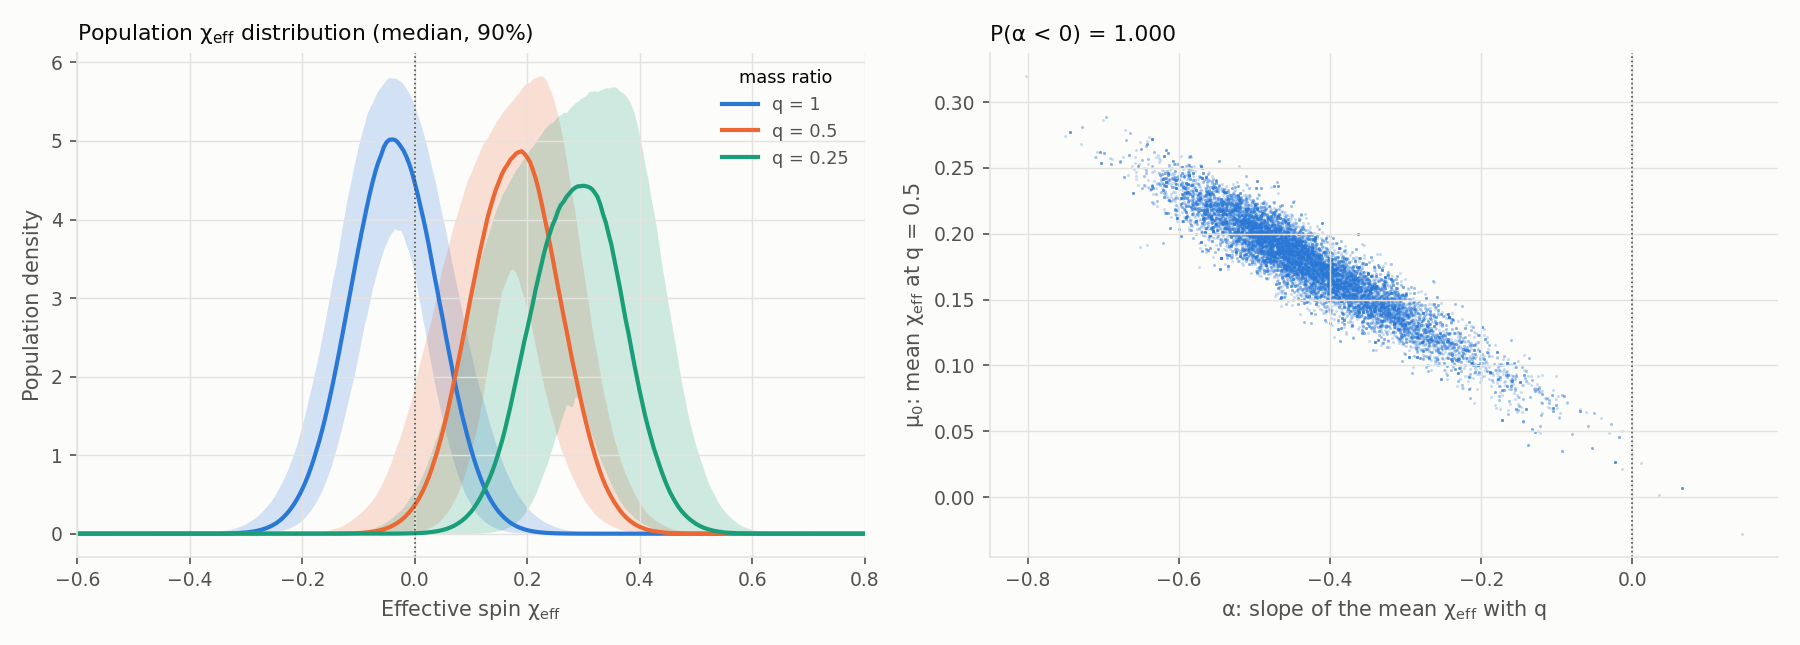
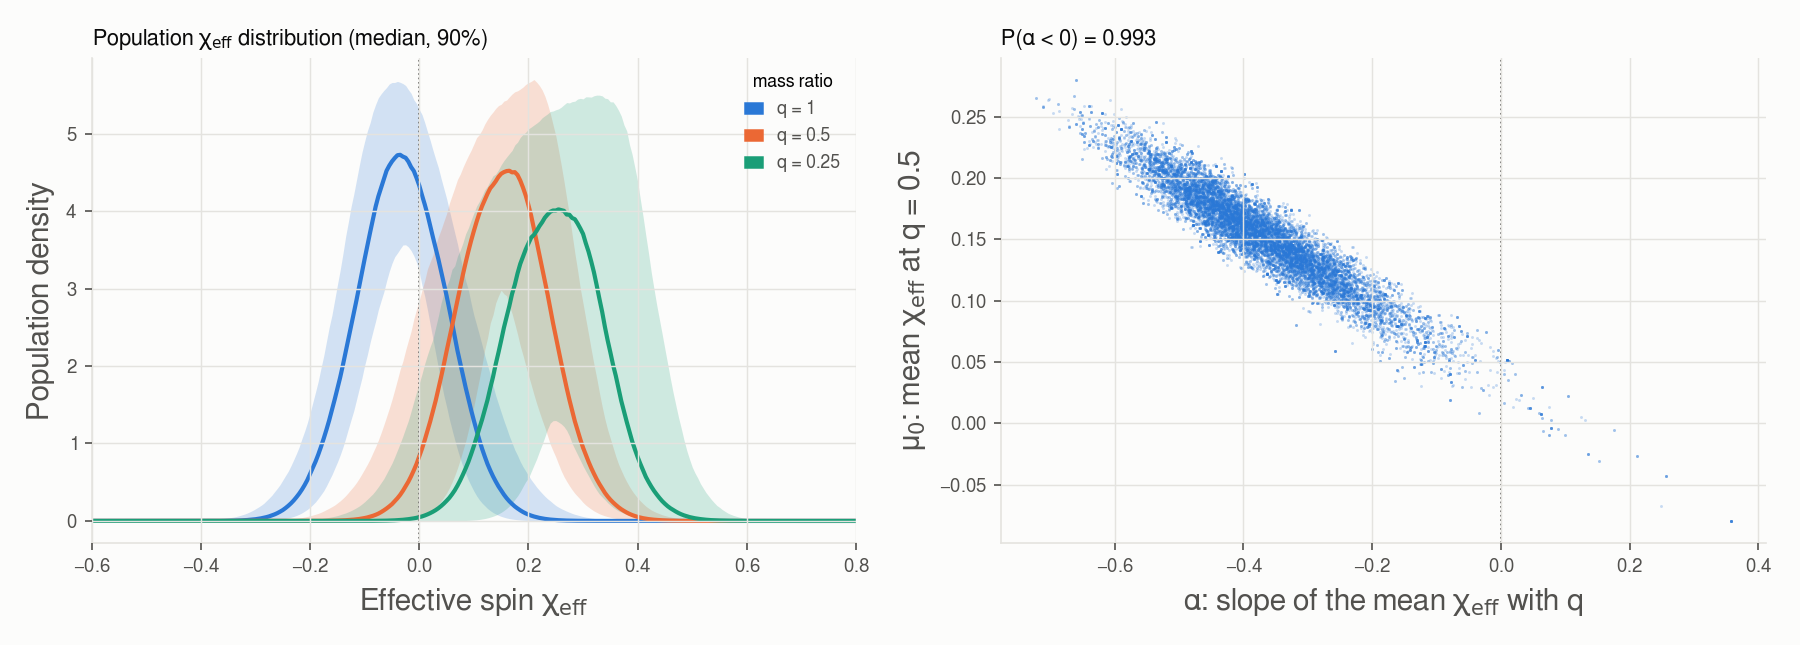
spin_population results from the re-run (S3, after the review fixes): fraction with chi_eff < 0 0.42 (0.32-0.52) over the astrophysical mass ratios, alpha -0.38, P(alpha<0) 0.993; astrophysical q are more equal than detected

diff --git a/docs/modes/spin-population.md b/docs/modes/spin-population.md
@@ -55,32 +55,33 @@ population spins isotropic, whatever the draw.
 
 | Parameter | Correlated model, median (90%) | Gaussian model (α = 0) |
 |---|---|---|
-| μ₀, mean χ_eff at q = 0.5 | 0.18 (0.11–0.23) | 0.036 (0.013–0.057) |
-| σ, width | 0.077 (0.067–0.097) | 0.096 (0.077–0.121) |
-| α, slope with q | **−0.44 (−0.58 to −0.24)** | — |
-| P(α < 0) | > 0.999 (all 16,000 samples) | — |
+| μ₀, mean χ_eff at q = 0.5 | 0.154 (0.081–0.215) | 0.036 (0.013–0.057) |
+| σ, width | 0.081 (0.069–0.106) | 0.096 (0.077–0.121) |
+| α, slope with q | **−0.38 (−0.55 to −0.16)** | — |
+| P(α < 0) | 0.993 (of 16,000 samples) | — |
 
-The mean effective spin falls with the mass ratio: 0.27 (0.16–0.34) at q = 0.3, 0.14 (0.09–0.17) at
-q = 0.6, −0.04 (−0.07 to 0.00) for equal masses. **Unequal-mass binaries have larger effective spins**,
+The mean effective spin falls with the mass ratio: 0.23 (0.11–0.32) at q = 0.3, 0.12 (0.06–0.16) at
+q = 0.6, −0.03 (−0.07 to 0.01) for equal masses. **Unequal-mass binaries have larger effective spins**,
 as Callister et al. found at 98.7% credibility with GWTC-2 [\[89\]](../references.md#ref-89); GWTC-4.0 also
 finds evidence for a χ_eff–q correlation [\[13\]](../references.md#ref-13). Most formation models predict the
 opposite trend.
 
-Averaged over the mass ratios of the *detected* binaries (median q = 0.84), a fraction **0.35 (0.26–0.43)**
-of them have χ_eff < 0, against 0.24–0.42 for the astrophysical population in GWTC-4.0
-[\[13\]](../references.md#ref-13): a substantial population consistent with dynamical assembly. Since October
-2026 the mode averages over the astrophysical mass ratios of the fixed Power Law + Peak (more unequal masses than
-the detected ones, so a different value: the number above, from the earlier version, is to be updated with a new
-run).
+Averaged over the astrophysical mass ratios of the fixed Power Law + Peak population (median q = 0.89, more equal
+than the detected binaries, median 0.84), a fraction **0.42 (0.32–0.52)** of the binaries have χ_eff < 0, against
+0.24–0.42 in GWTC-4.0 [\[13\]](../references.md#ref-13): a substantial population consistent with dynamical
+assembly. The fraction comes mostly from the near-equal-mass binaries, where the linear trend puts the mean just
+below zero; it depends on the assumed q distribution and on the linear form of the trend, which GWTC-4.0 does not
+assume. Until October 2026 the mode averaged over the detected mass ratios, with 0.35 (0.26–0.43) from an
+earlier run (before the spin-prior bound of 0.99 and the other fixes of that review).
 
 ![BBH chi_eff population](../img/modes/spin_population.png)
 
 *Left: the population χ_eff distribution at three mass ratios (median and 90%). Right: the posterior of the
-mean at q = 0.5 against the slope; every sample has α < 0.*
+mean at q = 0.5 against the slope; 99.3% of the samples have α < 0.*
 
-Diagnostics of the correlated run: at the posterior median 14,500 effective injections (threshold 548)
-and at least 16 effective PE samples per event (GW231028_153006, the one with χ_eff ≈ 0.5 at q ≈ 0.7);
-20 walkers × 1200 steps, acceptance 0.61, autocorrelation time 31 steps, about 500 independent samples.
+Diagnostics of the correlated run (14 October 2026, PE files from the S3 mirror): at the posterior median
+16,537 effective injections (threshold 548) and at least 17 effective PE samples per event (threshold 10);
+20 walkers × 1200 steps, acceptance 0.62, autocorrelation time 30 steps, about 530 independent samples.
 
 ## Validation
 

diff --git a/README.md b/README.md
@@ -781,10 +781,10 @@ gwtc_analysis neutron_star_eos
 
 | Parameter (GWTC-4.0 setup) | Median (90%) |
 |---|---|
-| μ₀, mean χ_eff at q = 0.5 | 0.18 (0.11–0.23) |
-| σ | 0.077 (0.067–0.097) |
-| α, slope with q | −0.44 (−0.58 to −0.24), P(α < 0) > 0.999 |
-| fraction with χ_eff < 0 | 0.35 (0.26–0.43) over the detected mass ratios (to be updated: the mode now averages over the astrophysical ones); GWTC-4.0: 0.24–0.42 |
+| μ₀, mean χ_eff at q = 0.5 | 0.154 (0.081–0.215) |
+| σ | 0.081 (0.069–0.106) |
+| α, slope with q | −0.38 (−0.55 to −0.16), P(α < 0) = 0.993 |
+| fraction with χ_eff < 0 | 0.42 (0.32–0.52) over the astrophysical mass ratios (Power Law + Peak); GWTC-4.0: 0.24–0.42 |
 
 Unequal-mass binaries have larger effective spins, as Callister et al. found; [GWTC-4.0](https://arxiv.org/abs/2508.18083) also finds evidence for a χ_eff–q correlation. A run takes about 30 minutes.
 
